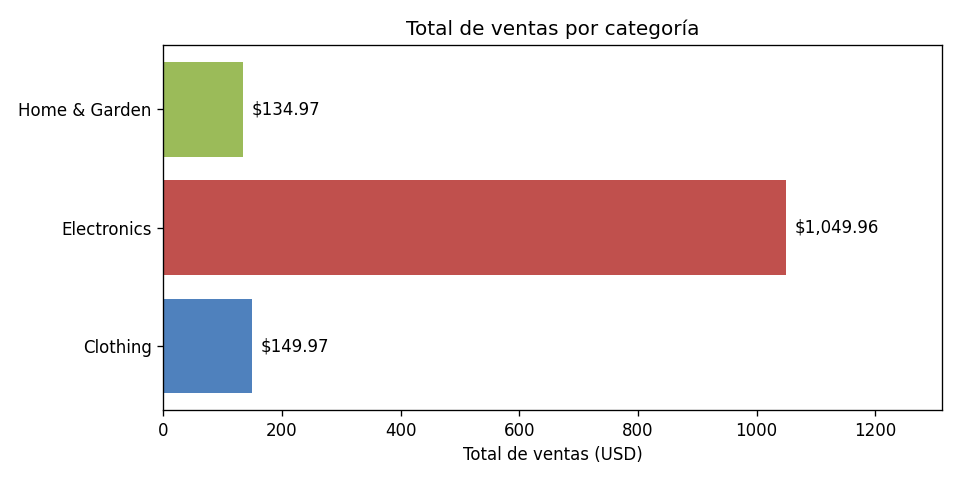
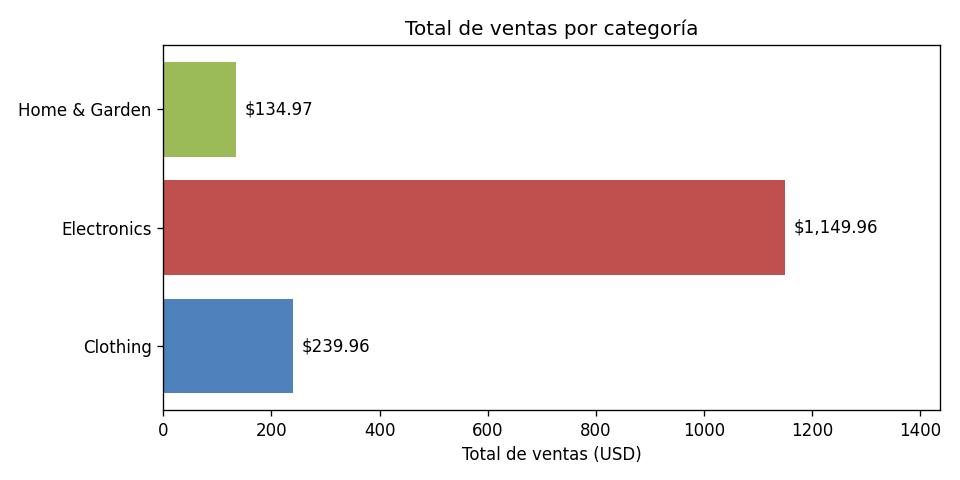
docs: update analytics with fresh pipeline run evidence (6 events, 3 categories)

diff --git a/README.md b/README.md
@@ -183,9 +183,9 @@ El script:
 
 | category | total_sales | transaction_count | ticket_promedio |
 |----------|------------|-------------------|-----------------|
-| Clothing | 149.97 | 3 | 49.99 |
-| Electronics | 1049.96 | 4 | 262.49 |
-| Home & Garden | 134.97 | 3 | 44.99 |
+| Clothing | 239.96 | 2 | 119.98 |
+| Electronics | 1149.96 | 3 | 383.32 |
+| Home & Garden | 134.97 | 1 | 134.97 |
 
 ### Dashboard KPI
 